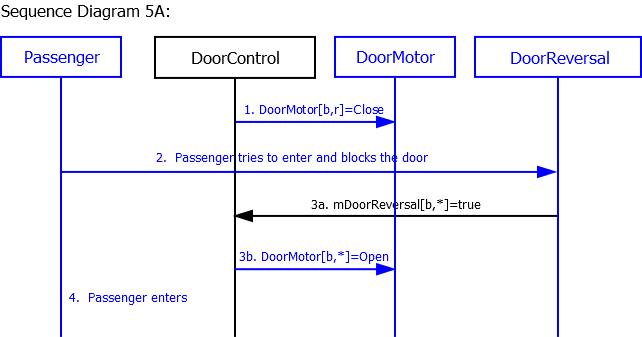
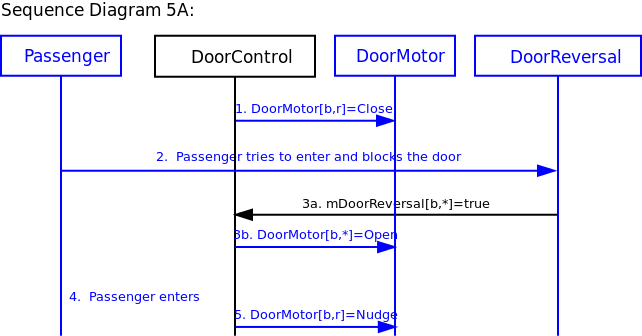
wxl2

diff --git a/portfolio/portfolio/traceability/req_const_traceability.html b/portfolio/portfolio/traceability/req_const_traceability.html
@@ -1072,7 +1072,7 @@ Requirements/Constraints</b></u></td>
       </td>
       <td style="vertical-align: top;">~<br>
       </td>
-      <td style="vertical-align: top;">~<br>
+      <td style="vertical-align: top;">X<br>
       </td>
       <td style="vertical-align: top;">~<br>
       </td>
@@ -1086,7 +1086,7 @@ Requirements/Constraints</b></u></td>
       </td>
       <td style="vertical-align: top;">~<br>
       </td>
-      <td style="vertical-align: top;">~<br>
+      <td style="vertical-align: top;">X<br>
       </td>
       <td style="vertical-align: top;">~<br>
       </td>
@@ -1100,7 +1100,7 @@ Requirements/Constraints</b></u></td>
       </td>
       <td style="vertical-align: top;">~<br>
       </td>
-      <td style="vertical-align: top;">~<br>
+      <td style="vertical-align: top;">X<br>
       </td>
       <td style="vertical-align: top;">~<br>
       </td>
@@ -1116,7 +1116,7 @@ Requirements/Constraints</b></u></td>
       </td>
       <td style="vertical-align: top;">~<br>
       </td>
-      <td style="vertical-align: top;">~<br>
+      <td style="vertical-align: top;">X<br>
       </td>
       <td style="vertical-align: top;"><br>
       </td>
@@ -1130,7 +1130,7 @@ Requirements/Constraints</b></u></td>
       </td>
       <td style="vertical-align: top;">~<br>
       </td>
-      <td style="vertical-align: top;">~<br>
+      <td style="vertical-align: top;">X<br>
       </td>
       <td style="vertical-align: top;"><br>
       </td>

diff --git a/portfolio/portfolio/scen_sd/scen_sd.html b/portfolio/portfolio/scen_sd/scen_sd.html
@@ -306,12 +306,13 @@ attempts to enter the car as the doors begin to close. </h3>
   <li>Passenger tries to enter the car.</li>
   <li>Door[<b>b</b>,<b>*</b>] start to reversal. </li>
   <li>Passenger enters the car successfully. </li>
+  <li>Door starts nudging</li>
 </ol>
 <h3> Post-Conditions: </h3>
 <ul type="disc">
   <li>Elevator stops at floor <b>f</b>. </li>
   <li>Passenger is in the car. </li>
-  <li>Doors for hallway <b>b</b> are opening. </li>
+  <li>Doors for hallway <b>b</b> are nudging. </li>
 </ul>
 <h3> Sequence Diagram: </h3>
 <p> <a href="sd5a.png"><img src="sd5a.png" alt="5A"
@@ -512,6 +513,7 @@ open.
   <li>Car starts moving to desired direction. </li>
   <li>Car arrives at next floor. </li>
   <li>Emergency brake is triggerd and car stops. </li>
+  <li>Car is speeding up</li>
 </ol>
 <h3> Post-Conditions: </h3>
 <ul type="disc">
